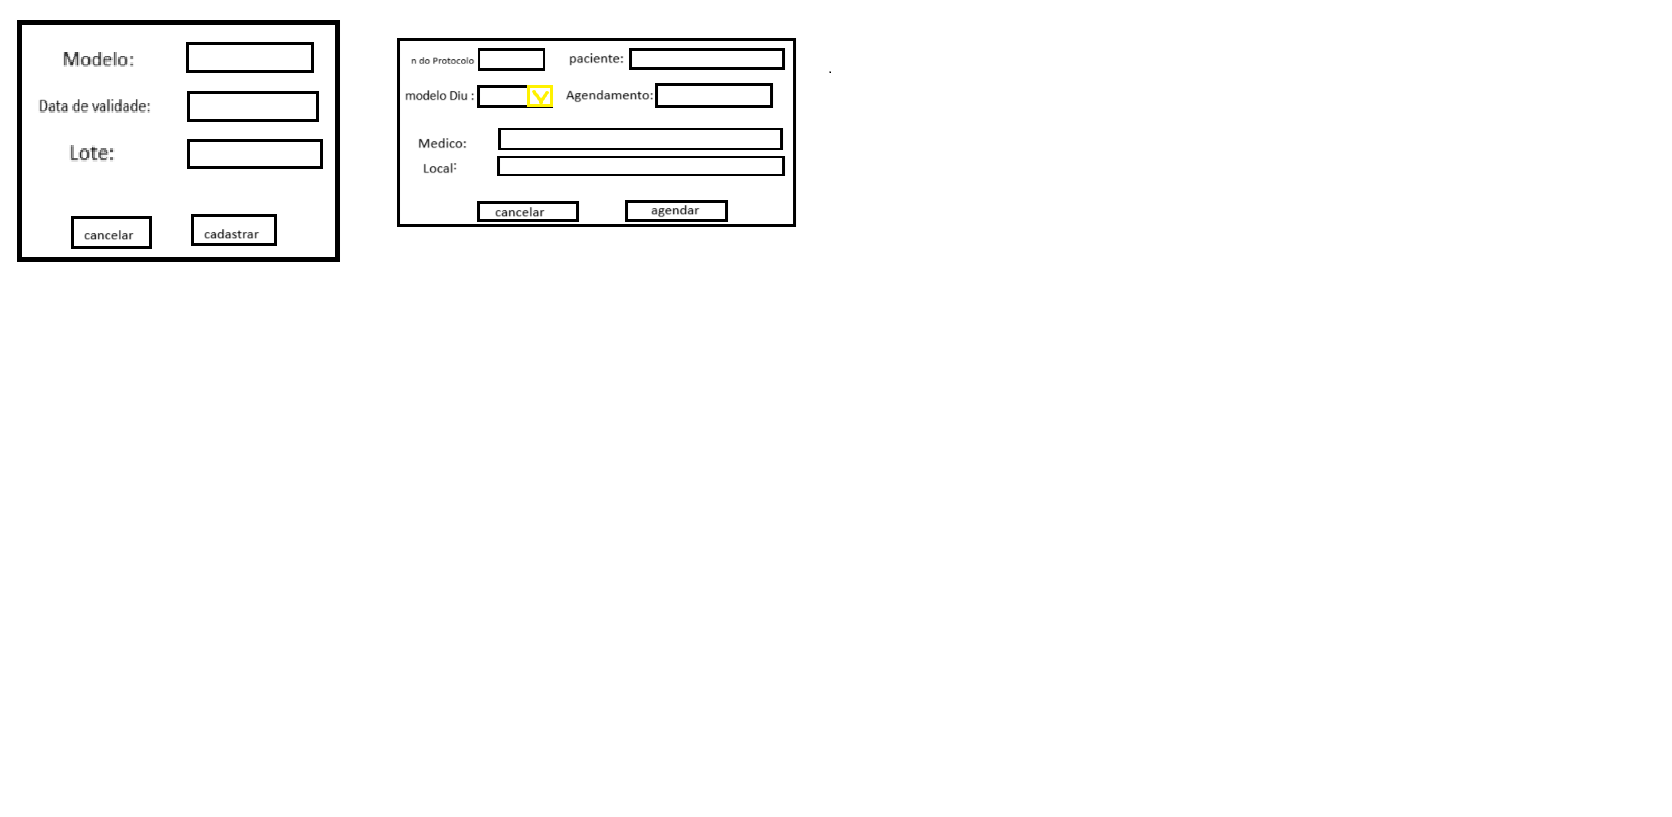
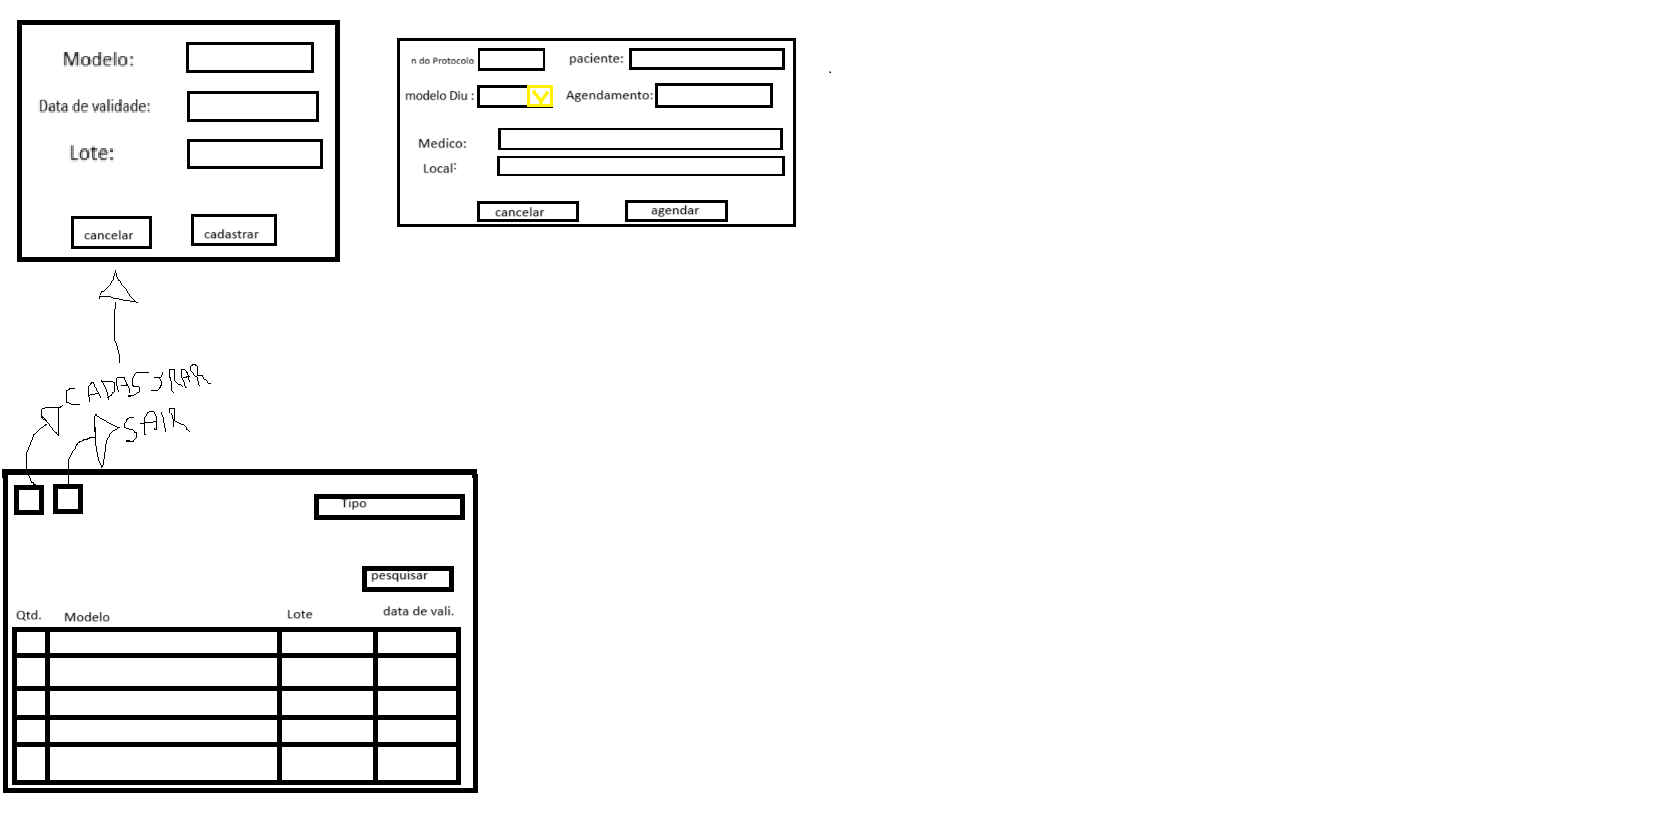
criado um quadro inicializador que separa as secoes do distema

Changed region(s): [[0.0, 0.6732, 0.2799, 0.9792], [0.0, 0.5508, 0.2799, 0.6426], [0.0622, 0.459, 0.0933, 0.4896]]

diff --git a/src/frames/desktopSistem.java b/src/frames/desktopSistem.java
@@ -1,0 +1,95 @@
+package frames;
+
+import java.awt.BorderLayout;
+import java.awt.Color;
+import java.awt.Dimension;
+import java.awt.GridLayout;
+import java.awt.Toolkit;
+import java.awt.event.ActionEvent;
+import java.awt.event.ActionListener;
+
+import javax.swing.JButton;
+import javax.swing.JFrame;
+import javax.swing.JLabel;
+import javax.swing.JPanel;
+
+public class desktopSistem implements ActionListener{
+	JFrame frame;
+	JButton almoxarifado;
+	JButton farmacia;
+	JButton fechar;
+	
+	public desktopSistem()
+	{
+		frame = new JFrame();
+		frame.setTitle("Desktop Portifolio");
+		frame.setDefaultCloseOperation(JFrame.DISPOSE_ON_CLOSE);
+		frame.setSize(200,500);
+		frame.setResizable(false);
+		frame.setUndecorated(true);
+		frame.setLayout(new BorderLayout());
+		frame.setLocationRelativeTo(null);
+		 // Obtém o tamanho da tela
+        Dimension screenSize = Toolkit.getDefaultToolkit().getScreenSize();
+        // Calcula a posição para o canto inferior direito
+        int x = screenSize.width - frame.getWidth();
+        int y = screenSize.height - frame.getHeight();
+        // Define a posição da janela no canto inferior direito
+        frame.setLocation(x, y);
+		
+        
+		JLabel title = new JLabel(" Desktop Sistema");
+		title.setForeground(Color.white);
+		
+
+		JPanel titleBar = new JPanel();
+		titleBar.setLayout(new BorderLayout());
+		titleBar.setBackground(Color.BLUE);
+		titleBar.add(title);	
+		
+		almoxarifado = new JButton("Almoxarifado");
+		almoxarifado.setFocusable(false);
+		almoxarifado.setBackground(null);
+		almoxarifado.addActionListener(this);
+		
+		farmacia = new JButton("Farmacia");
+		farmacia.setFocusable(false);
+		farmacia.setBackground(null);
+		farmacia.addActionListener(this);
+		
+		fechar = new JButton("Fechar desktop");
+		fechar.setFocusable(false);
+		fechar.setBackground(null);
+		fechar.addActionListener(this);
+		
+		JPanel secoes = new JPanel();
+		secoes.setLayout(null);
+		
+		JPanel subSecoes = new JPanel();
+		subSecoes.setBounds(0, 0, 200, 100);
+		subSecoes.setLayout(new GridLayout(3,1));
+		subSecoes.setBackground(Color.LIGHT_GRAY);
+		subSecoes.add(almoxarifado);
+		subSecoes.add(farmacia);
+		subSecoes.add(fechar);
+		secoes.add(subSecoes);
+		
+		
+		frame.add(titleBar, BorderLayout.NORTH);
+		frame.add(secoes,  BorderLayout.CENTER);
+		frame.setVisible(true);
+	}
+	
+	@Override
+	public void actionPerformed(ActionEvent e) {
+		if(e.getSource() == fechar) {
+			frame.dispose();
+		}else if(e.getSource() == almoxarifado){
+			HomeWindow homeAlmoxarifado = new HomeWindow();
+		}else if(e.getSource() == farmacia) {
+			//frame para cadastro  e  estoque de medicamentos
+		}
+	}
+	
+}
+

diff --git a/src/Main.java b/src/Main.java
@@ -1,8 +1,6 @@
 import java.util.Scanner;
-import Diu.EstoqueDiu;
-import Diu.diu;
-import frames.HomeWindow;
-import Diu.frameDiuCadas;
+
+import frames.desktopSistem;
 
 public class Main {
 
@@ -10,11 +8,7 @@ public class Main {
 		
 		Scanner sc = new Scanner(System.in);
 		
-		
-		HomeWindow homewindow = new HomeWindow();
-		frameDiuCadas framediudadas = new frameDiuCadas();
-		
-		
+		desktopSistem desktop = new desktopSistem();
 		
 		
 		/*

diff --git a/src/frames/HomeWindow.java b/src/frames/HomeWindow.java
@@ -54,7 +54,7 @@ import materiais.frameMatCadas;
 			JFrame home = new JFrame();
 			home.setTitle("Prexeco");
 			home.setSize(1000,700);
-			home.setDefaultCloseOperation(JFrame.EXIT_ON_CLOSE);
+			home.setDefaultCloseOperation(JFrame.DISPOSE_ON_CLOSE);
 			home.setLayout(null);
 			home.getContentPane().setBackground(Color.blue);
 			

diff --git a/src/Diu/frameDiuCadas.java b/src/Diu/frameDiuCadas.java
@@ -111,6 +111,9 @@ public class frameDiuCadas implements ActionListener {
 	
 	@Override
 	public void actionPerformed(ActionEvent e) {
+		
+		//fazer um try - catch para quando nao escrever nada nos campos
+		
 		if(e.getSource() == cadastrar) {
 	        diu diu = new diu();
 			diu.setModel(modelTextField.getText());
